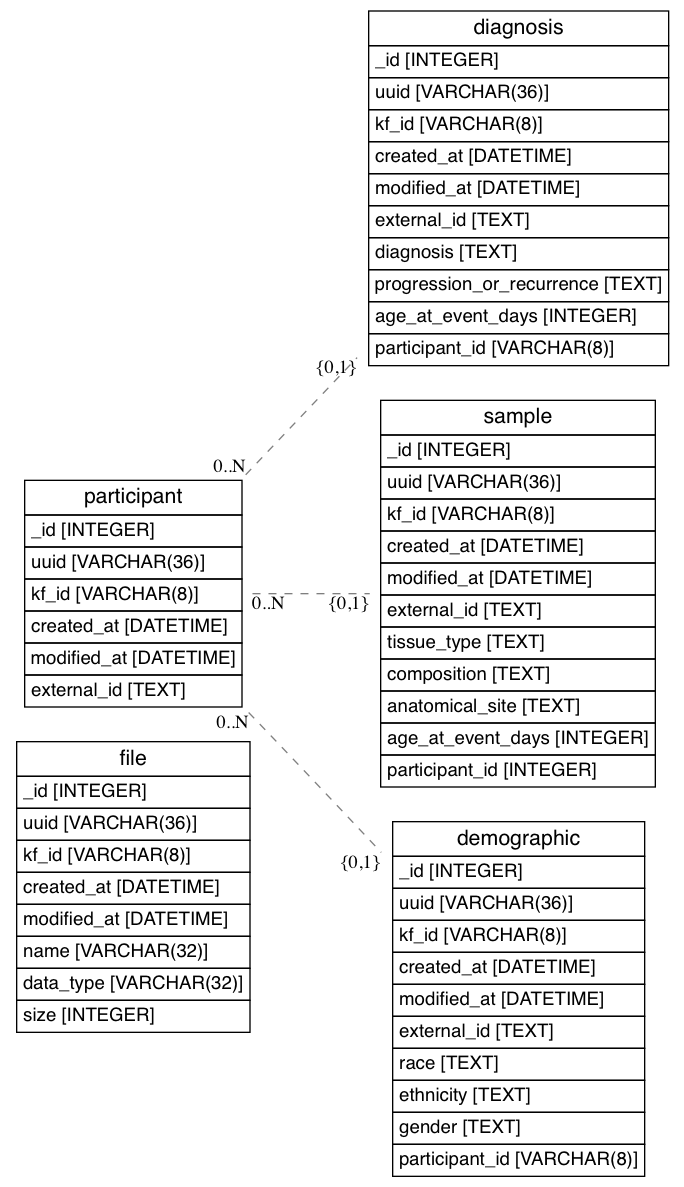
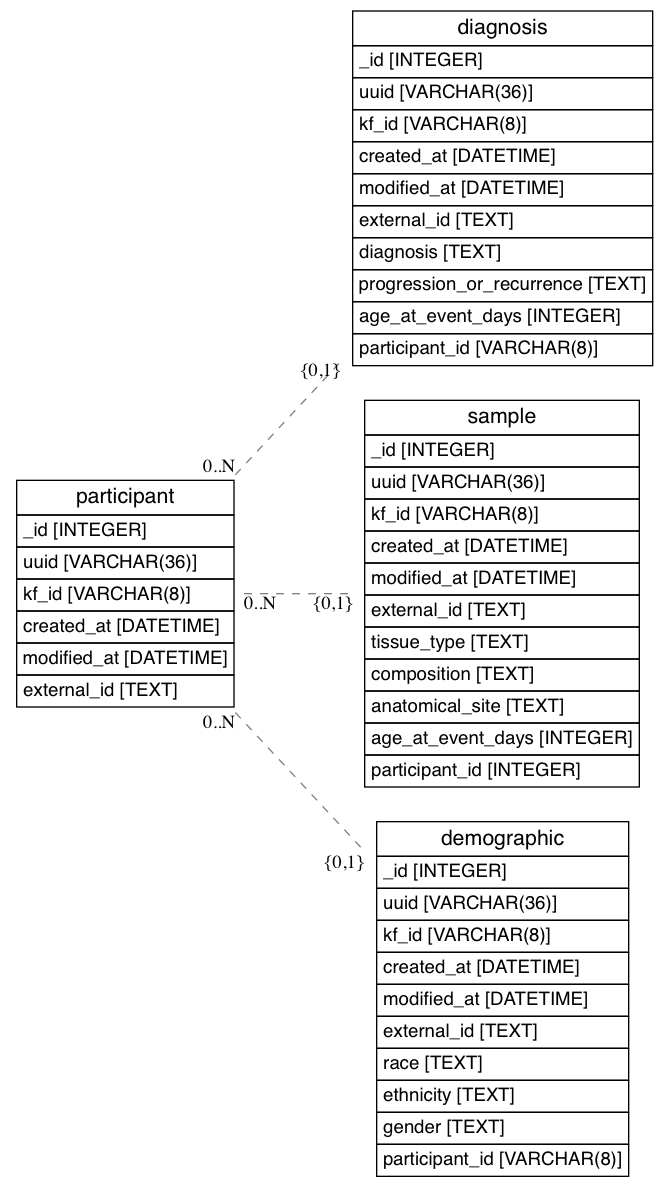
:fire: Remove File entity from model

diff --git a/dataservice/api/common/model.py b/dataservice/api/common/model.py
@@ -22,28 +22,8 @@ class TimestampMixin:
     modified_at = db.Column(db.DateTime(), default=datetime.now)
 
 
-class HasFileMixin:
-    @declared_attr
-    def file_id(cls):
-        return db.Column('file_id', db.ForeignKey('file._id'))
-
-    @declared_attr
-    def files(cls):
-        return db.relationship("File")
-
-
 class Base(IDMixin, TimestampMixin):
     """
     Defines base SQlAlchemy model class
     """
     pass
-
-
-class File(db.Model, Base):
-    """
-    Defines a file
-    """
-    __tablename__ = "file"
-    name = db.Column(db.String(32))
-    data_type = db.Column(db.String(32))
-    size = db.Column(db.Integer(), default=0)
